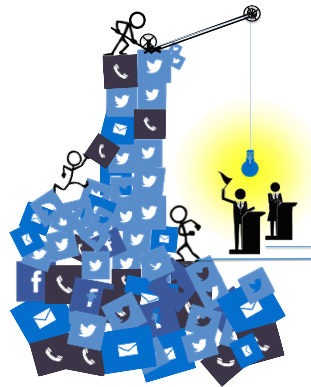
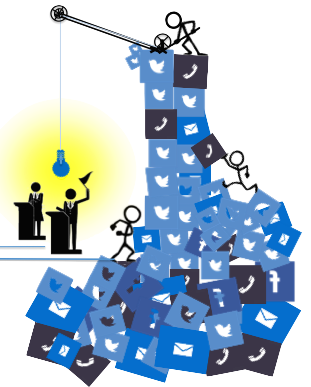
additional imporvements to how-it-works.  Crane picture included with flag.

diff --git a/templates/home.html b/templates/home.html
@@ -81,13 +81,17 @@
                     </div>
                     <div class="panel-body">
                         <!--<img class="img" src="{% static 'img/social.png' %}" height=10 width=300>-->
-                        <div><img style="border-radius:10px;" class="img" src="{% static 'img/social2.png' %}"
-                                        width=275></div>
+                        <div>
+                            <img style="border-radius:10px; max-width:28%;" class="img"
+                                 src="{% static 'img/social-vertical.png' %}"
+                                            width=82>
+                            <img class="img" src="{% static 'img/influencers-menu.png' %}"
+                                 width=204 style="display: inline-block; max-width:70%;">
+                        </div>
                         <!--<img style="border-radius:10px;" class="img"-->
                              <!--src="{% static 'img/light-bulb-chandelier.png' %}"-->
                              <!--height=11 width=200>-->
-                        <img class="img" src="{% static 'img/person-set.png' %}"
-                             width=350>
+
                         <!--<img class="img" src="{% static 'img/bubble-bust-light.png' %}"-->
                              <!--width=200>-->
                         <!--<p>Elected Reps</p>-->
@@ -109,10 +113,12 @@
                         <h1><b>Impact</b></h1>
                         <p><b>activity as a petition</b></p>
                     </div>
-                    <div class="panel-body-crane">
-                        <img class="img img-crane" src="{% static 'img/stick-crane2.png' %}">
-                        <!--<p><b>Activity of all is aggregated to become newsworthy demands for-->
-                            <!--acknowledgement of, and accountability to, information</b></p>-->
+                    <div class="panel-body">
+                        <div>
+                            <img class="img img-crane" src="{% static 'img/stick-crane5.png' %}">
+                            <!--<p><b>Activity of all is aggregated to become newsworthy demands for-->
+                                <!--acknowledgement of, and accountability to, information</b></p>-->
+                        </div>
                     </div>
                 </div>
             </div>

diff --git a/static/css/clean.css b/static/css/clean.css
@@ -345,9 +345,9 @@ hr.small {
   border-bottom-left-radius: 5px;
 }
 footer {
-  margin: 10px 0 0 0;
-  padding: 20px 0 65px
-  border-top: 3px solid #000000;
+  margin: 0px 0 0 0;
+  padding: 0px 0 0px;
+  border-top: 0px solid #000000;
 }
 footer .list-inline {
   margin: 0;
@@ -664,15 +664,23 @@ table {
   position:middle;
 }
 
+
+.panel{
+  padding: 0px;
+  border: 0px;
+  box-shadow: None;
+  margin-bottom: 0px;
+  /*box-shadow: 0 1px 1px rgba(0, 0, 0, .05);*/
+}
+
+
 .panel-heading-crane{
   padding: 0px;
 }
 
-
-
-
 .img-content-logo1{
   display: block;
+  max-width: 70%;
 }
 
 .img-content-logo2{
@@ -686,31 +694,21 @@ table {
 
   .img-content-logo2{
     display: block;
+    max-width: 70%;
   }
 }
 
 
 
-.panel-body-crane{
-  padding: 10px;
-  height: 425px;
-
-}
-
 .img-crane{
-
+  max-width: 100%
 }
 
 @media only screen and (min-width: 992px) {
   .img-crane{
-    max-width: 90%;
+    width:400px;
   }
   .panel-body-crane{
   height: auto;
-
-}
-
-
-
-
+  }
 }

diff --git a/staticfiles/css/clean.css b/staticfiles/css/clean.css
@@ -345,9 +345,9 @@ hr.small {
   border-bottom-left-radius: 5px;
 }
 footer {
-  margin: 10px 0 0 0;
-  padding: 20px 0 65px
-  border-top: 3px solid #000000;
+  margin: 0px 0 0 0;
+  padding: 0px 0 0px;
+  border-top: 0px solid #000000;
 }
 footer .list-inline {
   margin: 0;
@@ -664,15 +664,23 @@ table {
   position:middle;
 }
 
+
+.panel{
+  padding: 0px;
+  border: 0px;
+  box-shadow: None;
+  margin-bottom: 0px;
+  /*box-shadow: 0 1px 1px rgba(0, 0, 0, .05);*/
+}
+
+
 .panel-heading-crane{
   padding: 0px;
 }
 
-
-
-
 .img-content-logo1{
   display: block;
+  max-width: 70%;
 }
 
 .img-content-logo2{
@@ -686,31 +694,21 @@ table {
 
   .img-content-logo2{
     display: block;
+    max-width: 70%;
   }
 }
 
 
 
-.panel-body-crane{
-  padding: 10px;
-  height: 425px;
-
-}
-
 .img-crane{
-
+  max-width: 100%
 }
 
 @media only screen and (min-width: 992px) {
   .img-crane{
-    max-width: 90%;
+    width:400px;
   }
   .panel-body-crane{
   height: auto;
-
-}
-
-
-
-
+  }
 }

diff --git a/templates/layout.html b/templates/layout.html
@@ -68,13 +68,8 @@
             </div>
             <!-- /.container -->
         </nav>
-
-
         {% block content %}{% endblock %}
-
-
-
-        <footer>
+        <footer  style="margin:1px;">
             <div class="navbar navbar-default col-sm-12">
                 <div class="col-sm-2">
                     <ul class="list-unstyled link-list in-line">
